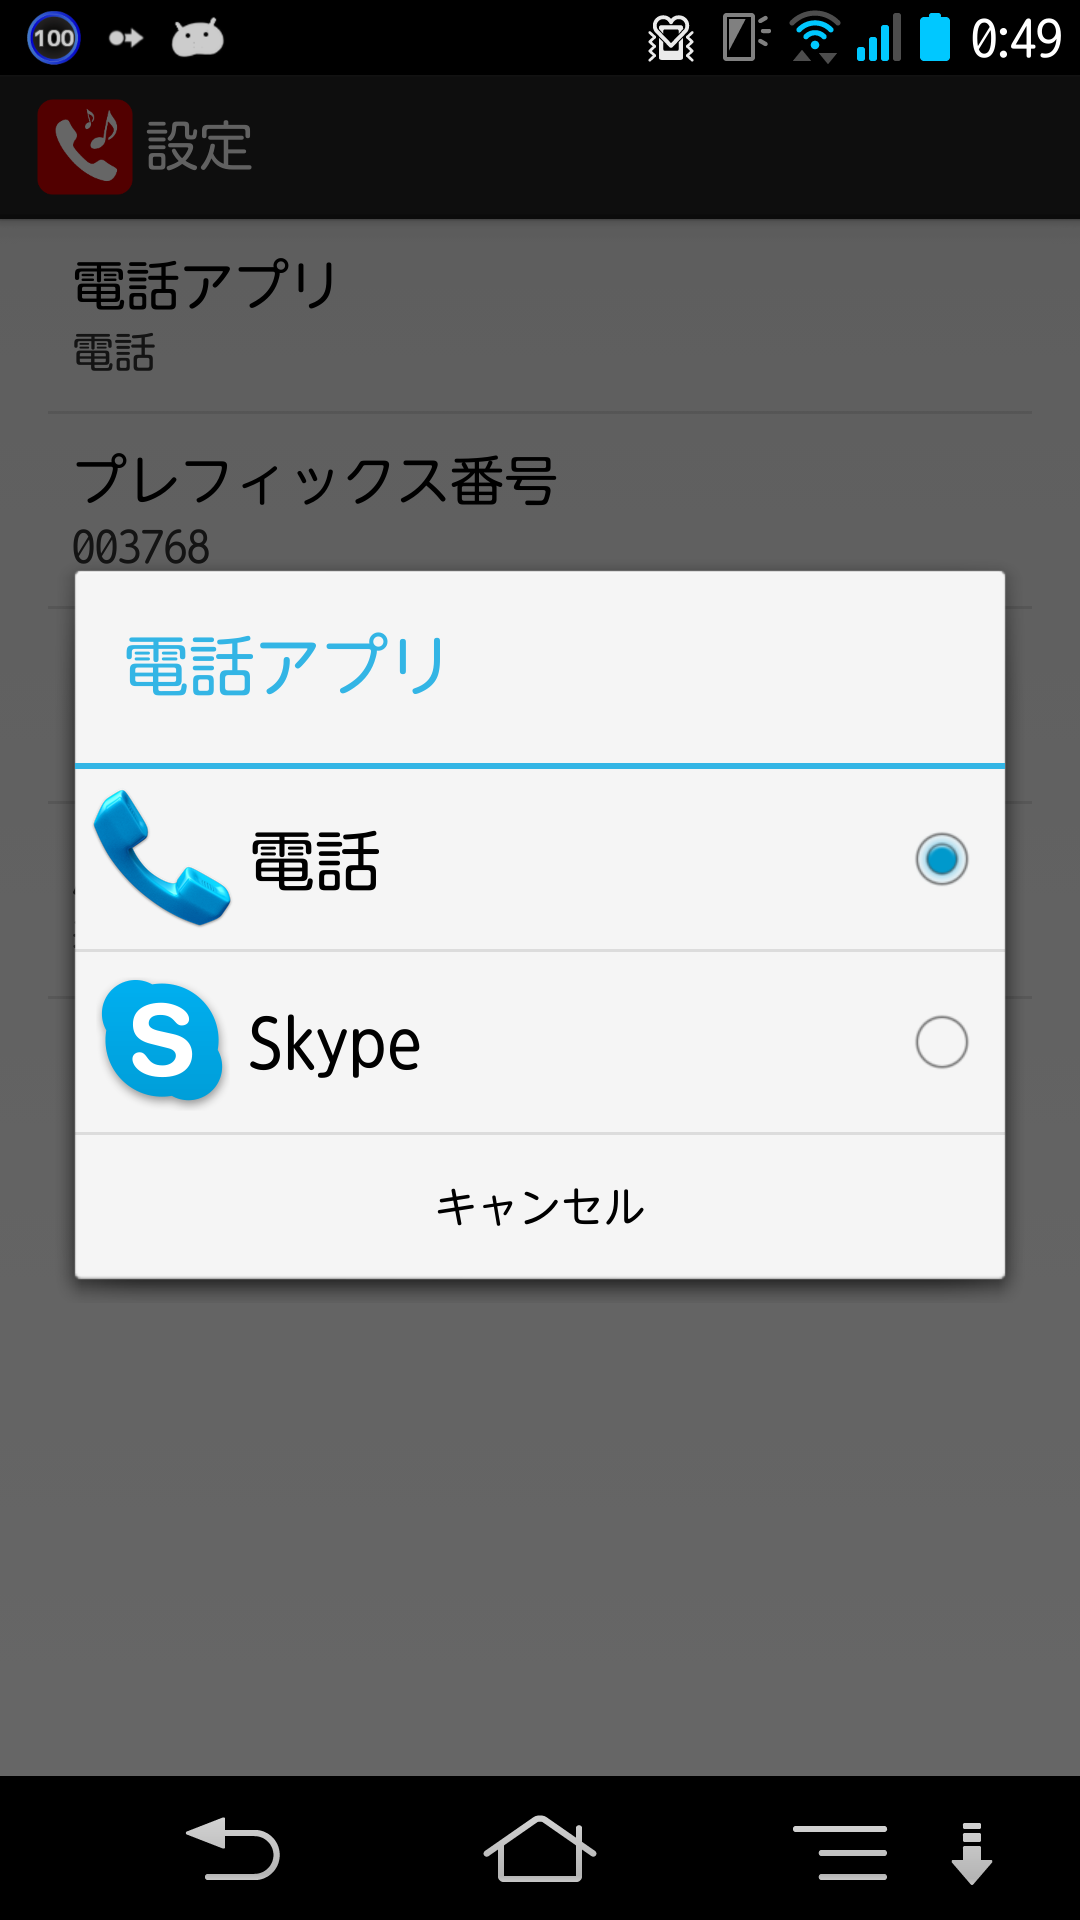
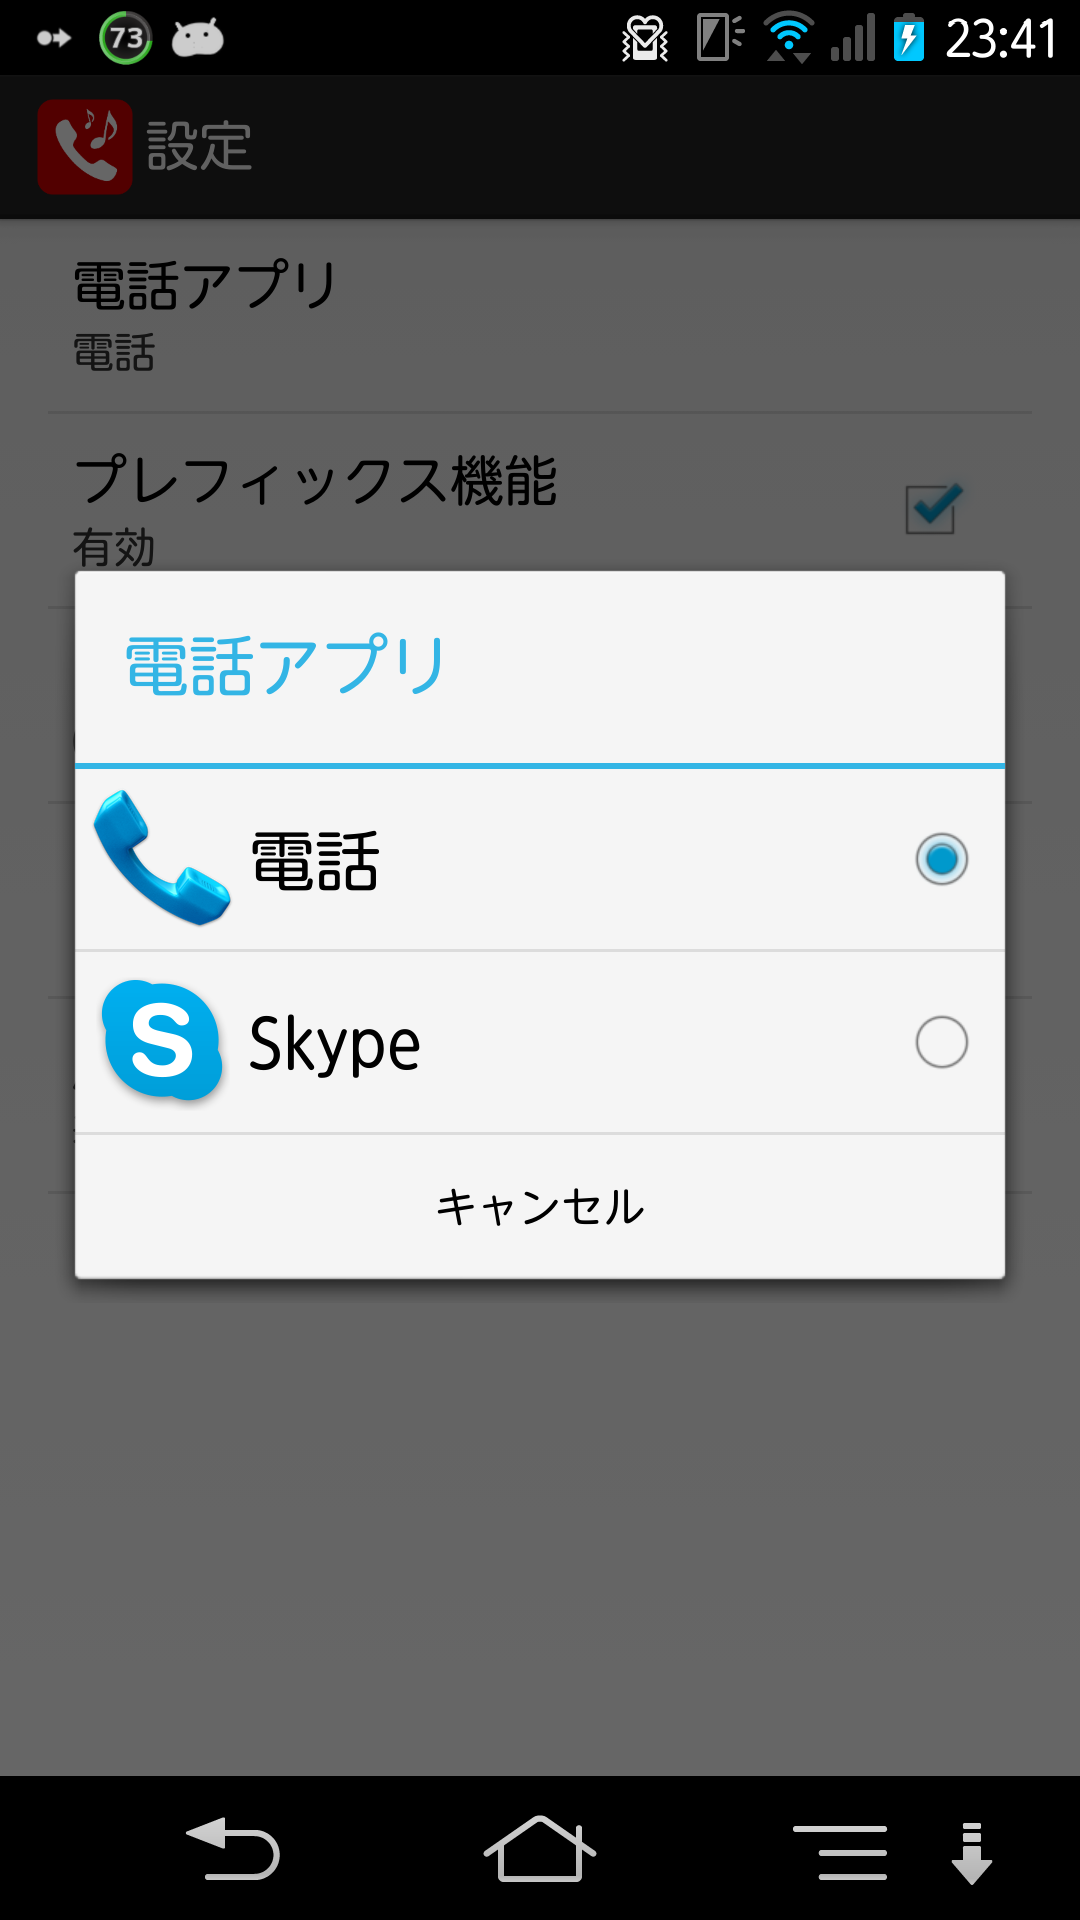
Version2.1のリリース

diff --git a/README.md b/README.md
@@ -18,6 +18,9 @@ RakutenCall
 + NX!電話帳(バージョン3.0)でらくでんが使えない→NX!電話帳側の仕様変更により、必ず「電話」アプリが起動してしまいます。現在NX!電話帳の改善待ちとなります
 
 ###【バージョン情報】###
++ Version2.1公開
+ - 設定にプレフィックス機能を無効にする項目を追加
+
 + Version2.0.1公開
  - アプリアイコンをフラットデザインに変更
 
